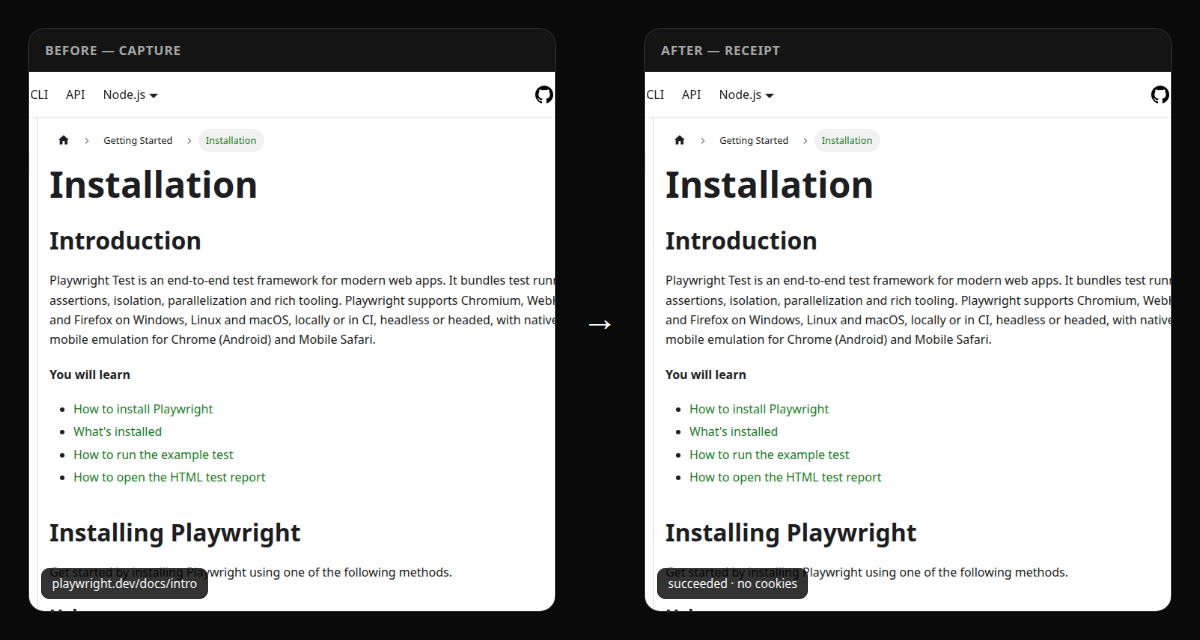
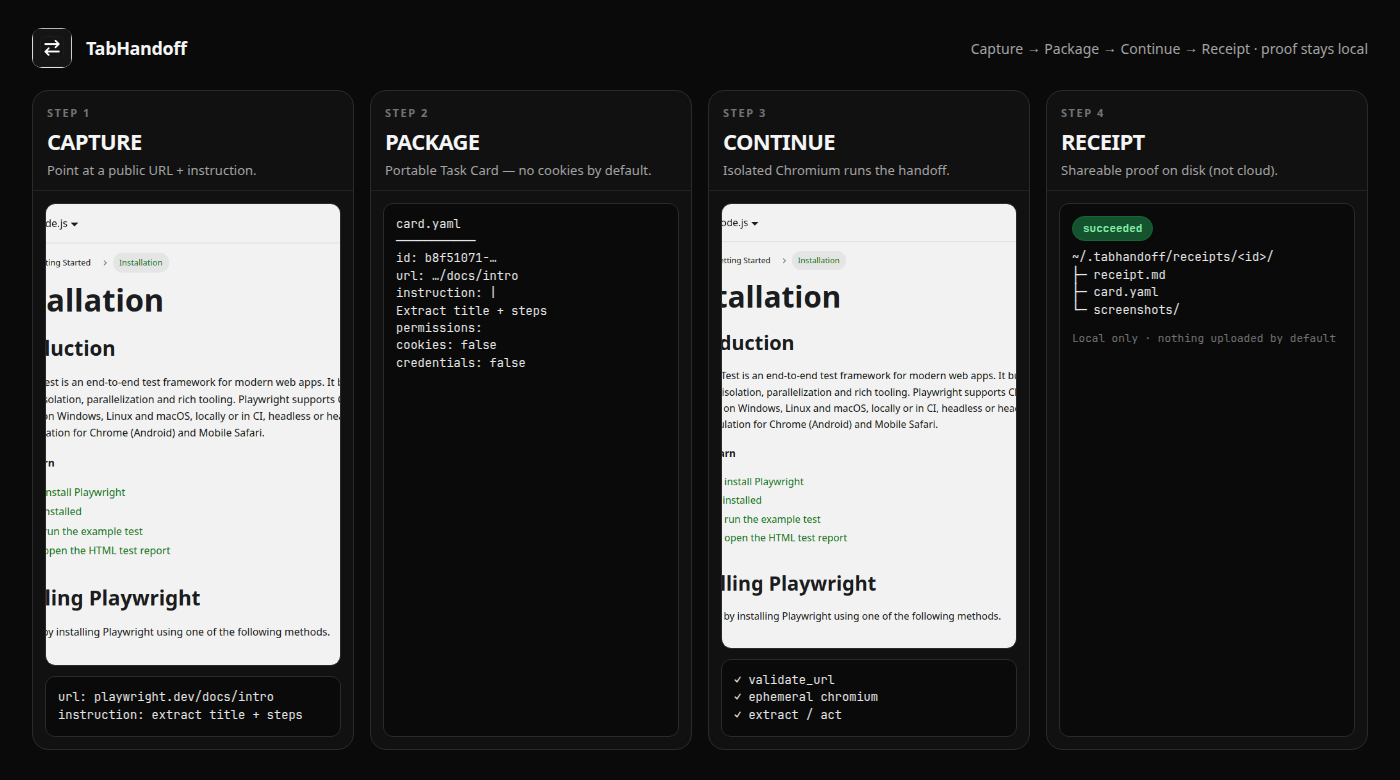
docs+cli: explain demo and local proof path
Rewrite README demo with labeled CAPTURE→RECEIPT strip and a clear
Where's the proof? section. Doctor/run print ~/.tabhandoff/receipts.

diff --git a/packages/cli/src/index.ts b/packages/cli/src/index.ts
@@ -163,12 +163,25 @@ async function cmdDoctor(): Promise<void> {
       : "none — DOM extractor only (fine for v0.1 public extracts)",
   });
 
+  checks.push({
+    name: "proof-store",
+    ok: true,
+    detail: `${receiptsDir()}/<handoff-id>/ — receipt.md · screenshots · card.yaml (local only; not uploaded by default)`,
+  });
+
   let failed = false;
   console.log(`🕊 tabhandoff doctor\n`);
   for (const c of checks) {
     console.log(`${c.ok ? "✅" : "❌"} ${c.name}: ${c.detail}`);
     if (!c.ok && c.name !== "llm-key") failed = true;
   }
+  console.log(``);
+  console.log(`Where's the proof? Local on this machine:`);
+  console.log(`  ${receiptsDir()}/<handoff-id>/`);
+  console.log(`  ├── receipt.md`);
+  console.log(`  ├── card.yaml`);
+  console.log(`  └── screenshots/`);
+  console.log(`Nothing is uploaded to a cloud by default (self-host / privacy).`);
   if (failed) process.exitCode = 1;
 }
 
@@ -195,11 +208,22 @@ async function cmdRun(args: Args): Promise<void> {
       error: job.error,
       resultSummary: job.resultSummary?.slice(0, 300),
     }, null, 2));
+    const proofDir = job.receiptPath
+      ? path.dirname(job.receiptPath)
+      : path.join(receiptsDir(), job.id);
+    console.log(``);
+    console.log(`Where's the proof? (local — not uploaded by default)`);
+    console.log(`  ${proofDir}/`);
+    console.log(`  ├── receipt.md`);
+    console.log(`  ├── card.yaml`);
+    console.log(`  └── screenshots/`);
+    console.log(`Open: tabhandoff receipt ${job.id}`);
     if (job.status !== "succeeded") process.exitCode = 1;
   } else {
     const job = await createAndQueue({ url, instruction, note });
     console.log(JSON.stringify({ id: job.id, status: job.status, receiptDir: job.receiptDir }, null, 2));
     console.log(`Poll: tabhandoff status ${job.id}`);
+    console.log(`Proof will land at: ${job.receiptDir ?? path.join(receiptsDir(), job.id)}/`);
   }
   await closeSharedBrowser();
 }

diff --git a/README.md b/README.md
@@ -28,7 +28,13 @@ Already cloned? `./scripts/install.sh`
 
 ---
 
-## Demo (30 seconds)
+## Demo (what you’re seeing)
+
+**Capture** a URL → **Package** a Task Card → **Continue** in an isolated browser → get a **Receipt** (proof).
+
+<p align="center">
+  <img src="docs/assets/tabhandoff-demo-strip.png" alt="CAPTURE → PACKAGE → CONTINUE → RECEIPT — proof stays local" width="900" />
+</p>
 
 ```bash
 cd ~/tabhandoff
@@ -38,20 +44,19 @@ node packages/cli/dist/index.js run \
   --wait
 ```
 
-You get a **shareable receipt** — markdown + screenshots + Task Card — under `~/.tabhandoff/receipts/<id>/`.
+### Where’s the proof?
 
-<p align="center">
-  <img src="docs/assets/tabhandoff-demo-strip.png" alt="TabHandoff before/after: Capture → Receipt" width="720" />
-</p>
+On **this machine only** (not uploaded to a cloud by default):
 
-<p align="center">
-  <img src="docs/assets/tabhandoff-demo-screenshot.png" alt="Capture — page loaded" width="360" />
-  &nbsp;
-  <img src="docs/assets/tabhandoff-demo-screenshot-result.png" alt="Continue — receipt result" width="360" />
-</p>
+```text
+~/.tabhandoff/receipts/<handoff-id>/
+├── receipt.md      # shareable markdown receipt
+├── card.yaml       # Task Card (portable handoff)
+└── screenshots/    # before/after stills
+```
 
-Live run against `playwright.dev/docs/intro` (`b8f51071-…`): isolated Chromium, DOM extract, receipt written — cookies/creds never transferred.
-
+Open a receipt: `node packages/cli/dist/index.js receipt <handoff-id>`  
+Privacy default: cookies/creds are **not** transferred; proof stays local unless *you* copy/share it.
 ---
 
 ## The loop
